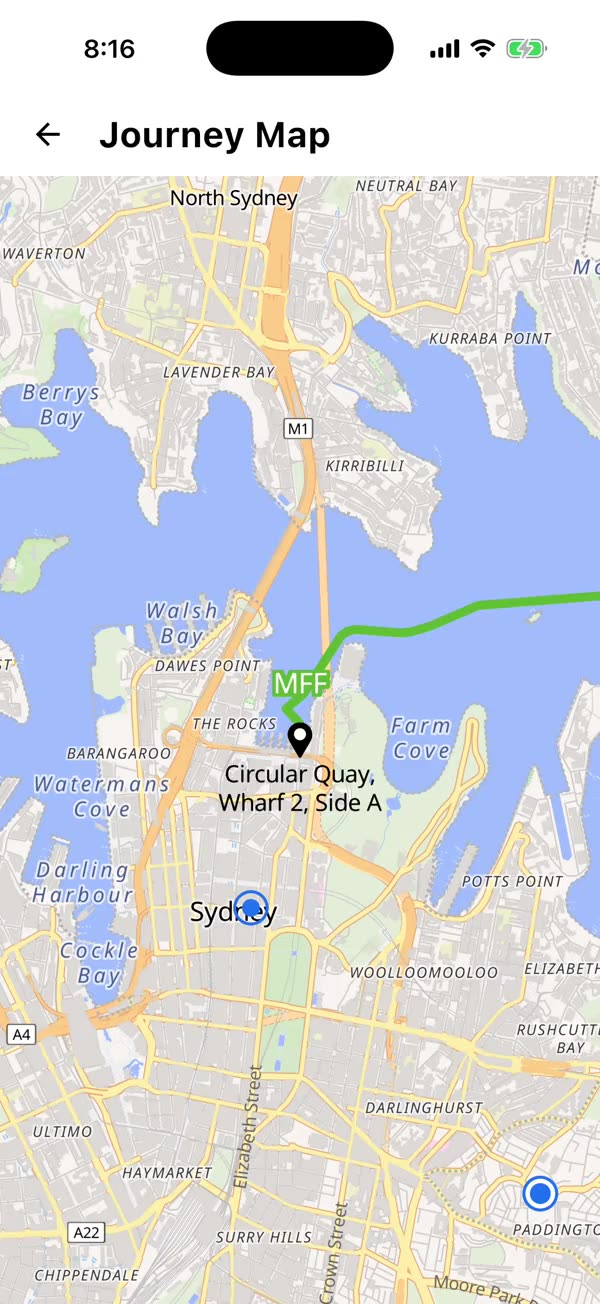
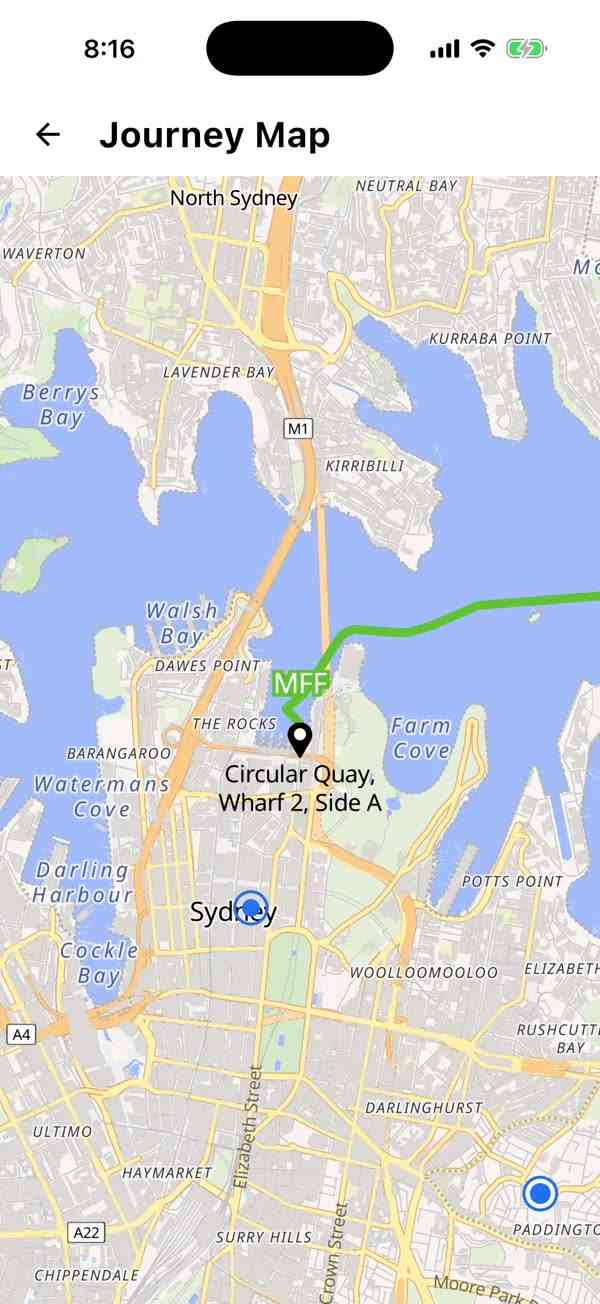
Serve phones a smaller hero, and preload the candidate they pick
Four pages were still over the LCP budget after the last round.

- The hero photo is the only image that fills the reading column, so
  it is the only one a phone downloads far more of than it paints.
  Tallawong's carpark is a detailed photo and would not compress
  below about 128KB at any width worth keeping. It now ships an
  800px variant beside the full file and lets the browser choose:
  the phone takes 51KB, the desktop still gets 1600px. Shrinking the
  one file would have softened the hero everywhere to fix a budget
  only the phone was failing.
- The preload link describes the same candidate set as the image,
  via imagesrcset. Preloading the full file while srcset picks the
  small one would have downloaded both.
- The Journal index paints a card image first and was preloading
  nothing.
- The ferry map poster is re-encoded. Checked at the 224px the
  reader sees it inside the phone frame, where the downsample hides
  the difference entirely.

Both hero variants are registered in CREDITS.json against the same
licence and creator as the photograph they come from.

Claude-Session: https://claude.ai/code/session_01R7VQVwJF3wfcbCmD8vewuY

diff --git a/blog/auburn-cherry-blossom-festival-without-a-car/index.html b/blog/auburn-cherry-blossom-festival-without-a-car/index.html
@@ -26,7 +26,7 @@
 <link rel="stylesheet" media="print" onload="this.media='all'" href="https://fonts.googleapis.com/css2?family=Fraunces:opsz,wght@144,900&text=ABCDEFGHIJKLMNOPQRSTUVWXYZ&display=swap">
 <noscript><link rel="stylesheet" href="https://fonts.googleapis.com/css2?family=Fraunces:opsz,wght@144,900&text=ABCDEFGHIJKLMNOPQRSTUVWXYZ&display=swap"></noscript>
 
-<link rel="preload" as="image" href="/images/auburn-cherry-blossom.webp" fetchpriority="high">
+<link rel="preload" as="image" href="/images/auburn-cherry-blossom.webp" imagesrcset="/images/auburn-cherry-blossom-800.webp 800w, /images/auburn-cherry-blossom.webp 1600w" imagesizes="(max-width: 780px) 100vw, 1096px" fetchpriority="high">
 <link rel="stylesheet" href="/blog.css?v=51b1b96d" />
 <link rel="stylesheet" href="/blog.tokens.css?v=6f985d85" />
 <script type="application/ld+json">
@@ -96,7 +96,7 @@
 
   <div class="container narrow">
     <figure class="post-hero anim">
-      <img src="/images/auburn-cherry-blossom.webp" alt="A cluster of pink cherry blossoms in full bloom on a branch at Auburn Botanic Gardens" fetchpriority="high" decoding="async" />
+      <img src="/images/auburn-cherry-blossom.webp" srcset="/images/auburn-cherry-blossom-800.webp 800w, /images/auburn-cherry-blossom.webp 1600w" sizes="(max-width: 780px) 100vw, 1096px" alt="A cluster of pink cherry blossoms in full bloom on a branch at Auburn Botanic Gardens" fetchpriority="high" decoding="async" />
       <figcaption>Photo by <a href="https://commons.wikimedia.org/wiki/File:Cherry_blossoms_at_Auburn_Botanical_Gardens_01.jpg" target="_blank" rel="noopener nofollow">Maksym Kozlenko</a>, cropped and resized. Licensed CC BY-SA 4.0, <a href="https://creativecommons.org/licenses/by-sa/4.0" target="_blank" rel="noopener nofollow">creativecommons.org/licenses/by-sa/4.0</a></figcaption>
     </figure>
   </div>

diff --git a/blog/tallawong-parking-lottery/index.html b/blog/tallawong-parking-lottery/index.html
@@ -26,7 +26,7 @@
 <link rel="stylesheet" media="print" onload="this.media='all'" href="https://fonts.googleapis.com/css2?family=Fraunces:opsz,wght@144,900&text=ABCDEFGHIJKLMNOPQRSTUVWXYZ&display=swap">
 <noscript><link rel="stylesheet" href="https://fonts.googleapis.com/css2?family=Fraunces:opsz,wght@144,900&text=ABCDEFGHIJKLMNOPQRSTUVWXYZ&display=swap"></noscript>
 
-<link rel="preload" as="image" href="/images/tallawong-carpark.webp" fetchpriority="high">
+<link rel="preload" as="image" href="/images/tallawong-carpark.webp" imagesrcset="/images/tallawong-carpark-800.webp 800w, /images/tallawong-carpark.webp 1600w" imagesizes="(max-width: 780px) 100vw, 1096px" fetchpriority="high">
 <link rel="stylesheet" href="/blog.css?v=51b1b96d" />
 <link rel="stylesheet" href="/blog.tokens.css?v=6f985d85" />
 <script type="application/ld+json">
@@ -96,7 +96,7 @@
 
   <div class="container narrow">
     <figure class="post-hero anim">
-      <img src="/images/tallawong-carpark.webp" alt="Boom gates down across the entry lane of the Tallawong Park and Ride car park, with rows of parked cars filling the lot behind" fetchpriority="high" decoding="async" />
+      <img src="/images/tallawong-carpark.webp" srcset="/images/tallawong-carpark-800.webp 800w, /images/tallawong-carpark.webp 1600w" sizes="(max-width: 780px) 100vw, 1096px" alt="Boom gates down across the entry lane of the Tallawong Park and Ride car park, with rows of parked cars filling the lot behind" fetchpriority="high" decoding="async" />
       <figcaption>The gates at Tallawong Park and Ride. Photo by Karan Sharma.</figcaption>
     </figure>
   </div>

diff --git a/blog/index.html b/blog/index.html
@@ -26,6 +26,7 @@
 <link rel="stylesheet" media="print" onload="this.media='all'" href="https://fonts.googleapis.com/css2?family=Fraunces:opsz,wght@144,900&text=ABCDEFGHIJKLMNOPQRSTUVWXYZ&display=swap">
 <noscript><link rel="stylesheet" href="https://fonts.googleapis.com/css2?family=Fraunces:opsz,wght@144,900&text=ABCDEFGHIJKLMNOPQRSTUVWXYZ&display=swap"></noscript>
 
+<link rel="preload" as="image" href="/images/krail/choose-how-you-want-to-travel/flow-mode-filter-poster.jpg" fetchpriority="high">
 <link rel="stylesheet" href="/blog.css?v=51b1b96d" />
 <link rel="stylesheet" href="/blog.tokens.css?v=6f985d85" />
 <script type="application/ld+json">
